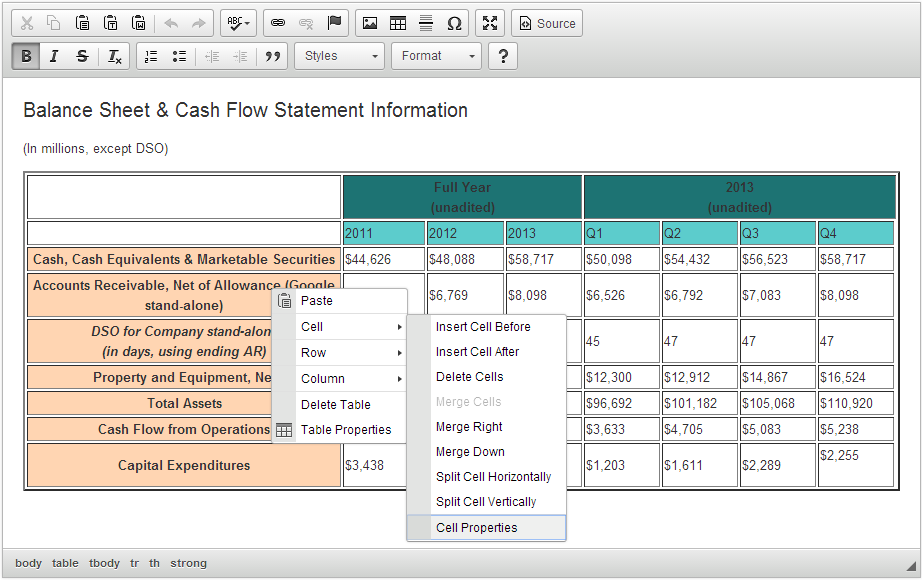
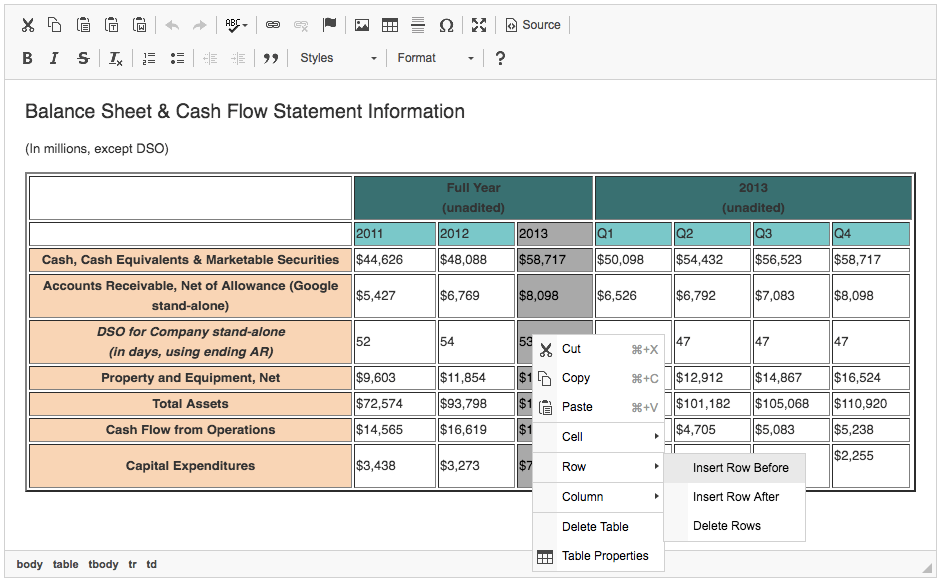
Table documentation updated.

diff --git a/guides/dev/features/table/README.md b/guides/dev/features/table/README.md
@@ -9,7 +9,7 @@ For licensing, see LICENSE.md.
 	Features described in this article are provided through several plugins that may not be included in the CKEditor preset available from the <a href="http://ckeditor.com/download">Download</a> site which you are using and may <a href="#!/guide/dev_plugins">need to be added to your custom build</a> with <a href="http://ckeditor.com/builder">CKBuilder</a>.
 </p>
 
-CKEditor support for creating and editing tables is provided by three separate table-related plugins as well as two helper plugins.
+CKEditor support for creating and editing tables is provided by four separate table-related plugins as well as two helper plugins.
 
 * The [Table](http://ckeditor.com/addon/table) plugin &ndash; adds the **Table Properties** dialog window with support for creating tables and setting basic table properties, such as:
 	* Number of rows and columns.
@@ -29,13 +29,17 @@ CKEditor support for creating and editing tables is provided by three separate t
 	* Inserting and deleting cells, rows and columns.
 	* Merging and splitting cells horizontally and vertically.
 * The [Table Resize](http://ckeditor.com/addon/tableresize) plugin &ndash; adds support for column resizing with your mouse.
+* The [Table Selection](http://ckeditor.com/addon/tableselection) plugin (CKEditor 4.7+) &ndash; introduces support for the custom selection system for tables that lets you:
+	* Select an arbitrary rectangular table fragment &mdash; a few cells from different rows, a column (or a few of them) or a row (or multiple rows).
+	* Apply formatting or add a link to all selected cells at once.
+	* Cut, copy and paste entire rows or columns.
 
 The following two helper plugins extend the Table Properties and Cell Properties dialog windows with additional features:
 
 * The [Color Dialog](http://ckeditor.com/addon/colordialog) plugin &ndash; provides a user-friendly way to select the cell background and border color through a dedicated **Select Color** dialog window with a color table.
 * The [Advanced Tab for Dialogs](http://ckeditor.com/addon/dialogadvtab) plugin &ndash; provides the **Advanced** tab for the Table Properties dialog window and allows for setting the table ID, language direction, inline CSS style and stylesheet class.
 
-The **Table** and **Table Tools** plugins are included in the Standard and Full installation packages. **Color Dialog** and  **Advanced Tab for Dialogs** are only available in the Full distribution, while the **Table Resize** plugin is optional &mdash; they may be [added to your CKEditor build](#!/guide/dev_plugins).
+The **Table**, **Table Tools** and **Table Selection** plugins are included in the Standard and Full installation packages. **Color Dialog** and  **Advanced Tab for Dialogs** are only available in the Full distribution, while the **Table Resize** plugin is optional &mdash; they may be [added to your CKEditor build](#!/guide/dev_plugins).
 
 The following image presents a table that you can create in CKEditor along with the table context menu options provided by the Table and Table Tools plugins.
 
